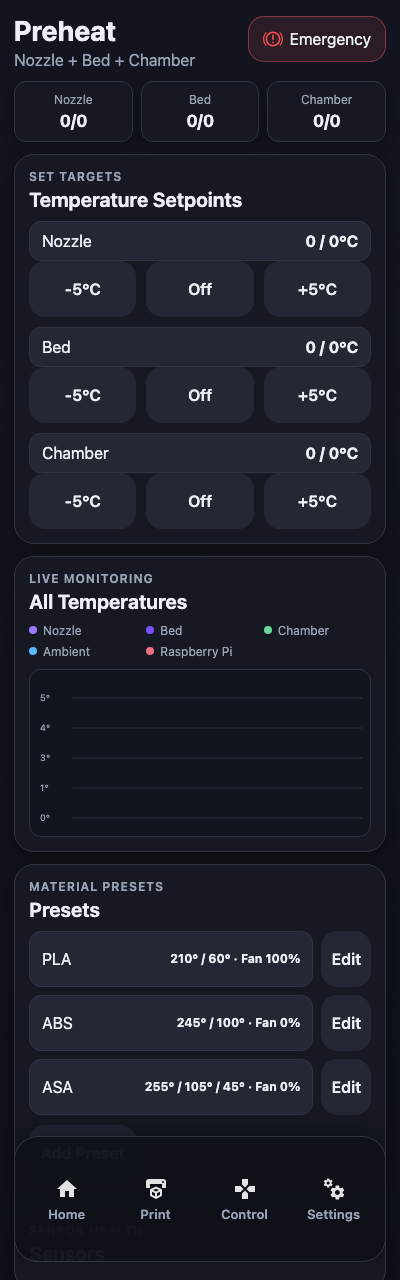
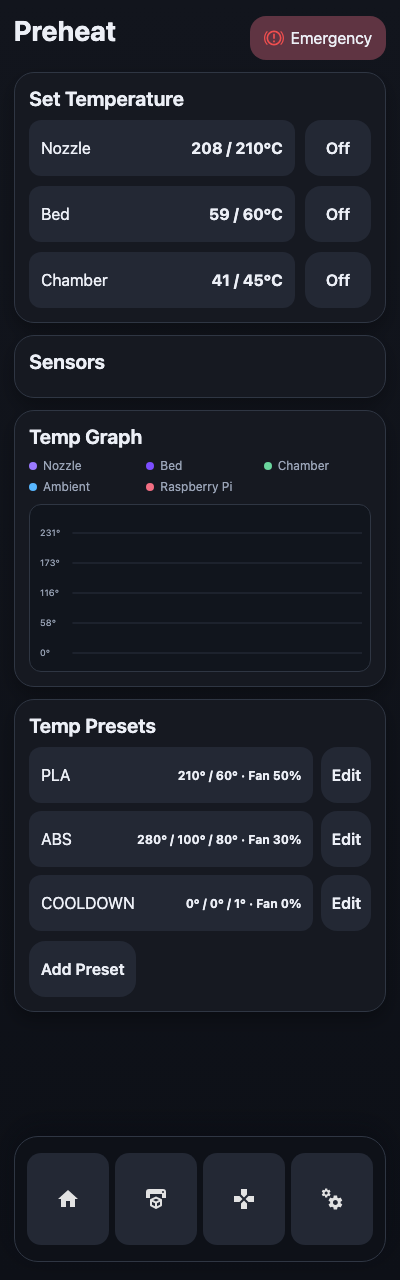
updated screenshots

diff --git a/README.md b/README.md
@@ -9,26 +9,43 @@ Plz support me I dont want to maintain this but i will if u donate:))))
 https://buymeacoffee.com/tiger3dprinting
 
 ## Screenshots
-### Captured at  `400x1280` portrait:
+### Portrait layout (400x1280)
+These screenshots use the default accent and `printer-render`.
 
 | Home | Files | Preheat | Extrude |
 |---|---|---|---|
 | ![Home](docs/screenshots/home.png) | ![Files](docs/screenshots/files.png) | ![Preheat](docs/screenshots/preheat.png) | ![Extrude](docs/screenshots/extrude.png) |
 
-| Control | Settings | Connectivity | Updates |
+| Control | Settings | Appearance | Connectivity |
 |---|---|---|---|
-| ![Control](docs/screenshots/control.png) | ![Settings](docs/screenshots/settings.png) | ![Connectivity](docs/screenshots/connectivity.png) | ![Updates](docs/screenshots/updates.png) |
+| ![Control](docs/screenshots/control.png) | ![Settings](docs/screenshots/settings.png) | ![Appearance](docs/screenshots/appearance.png) | ![Connectivity](docs/screenshots/connectivity.png) |
+
+| Updates |
+|---|
+| ![Updates](docs/screenshots/updates.png) |
 
 Print and Live Tune screens (shown while Klipper is printing or paused; these captures use sample data). Open Live Tune from the print actions to adjust Z offset, speed, flow, pressure advance and smooth time for the active extruder, square corner velocity, the part fan, and discovered output pins; use Back to Print to return. These adjustments are live and do not save changes to the printer configuration. Pressure advance controls are unavailable when the active extruder does not report those values.
 
 <img src="docs/screenshots/print.png" alt="Print" width="200" /> <img src="docs/screenshots/live-tune.png" alt="Live Tune" width="200" />
 
-### Current Horizontal Screen Layout
-Still wip
+### Landscape layout (800x480 for a 480x800 display rotated horizontally)
+These screenshots use the red accent and `printer-render2`.
 
 | Home | Files | Control |
 |---|---|---|
-| ![Home](docs/screenshots/Home-Horizontal.png) | ![Files](docs/screenshots/Files-Horizontal.png) | ![Preheat](docs/screenshots/Control-Horizontal.png) |
+| ![Home](docs/screenshots/Home-Horizontal.png) | ![Files](docs/screenshots/Files-Horizontal.png) | ![Control](docs/screenshots/Control-Horizontal.png) |
+
+| Preheat | Extrude | Settings |
+|---|---|---|
+| ![Preheat](docs/screenshots/Preheat-Horizontal.png) | ![Extrude](docs/screenshots/Extrude-Horizontal.png) | ![Settings](docs/screenshots/Settings-Horizontal.png) |
+
+| Appearance | Connectivity | Updates |
+|---|---|---|
+| ![Appearance](docs/screenshots/Appearance-Horizontal.png) | ![Connectivity](docs/screenshots/Connectivity-Horizontal.png) | ![Updates](docs/screenshots/Updates-Horizontal.png) |
+
+| Print | Live Tune |
+|---|---|
+| ![Print](docs/screenshots/Print-Horizontal.png) | ![Live Tune](docs/screenshots/Live-Tune-Horizontal.png) |
 
 ## Main Installation (Recommended)
 Run on your printer host user (non-root, must have `sudo`):
